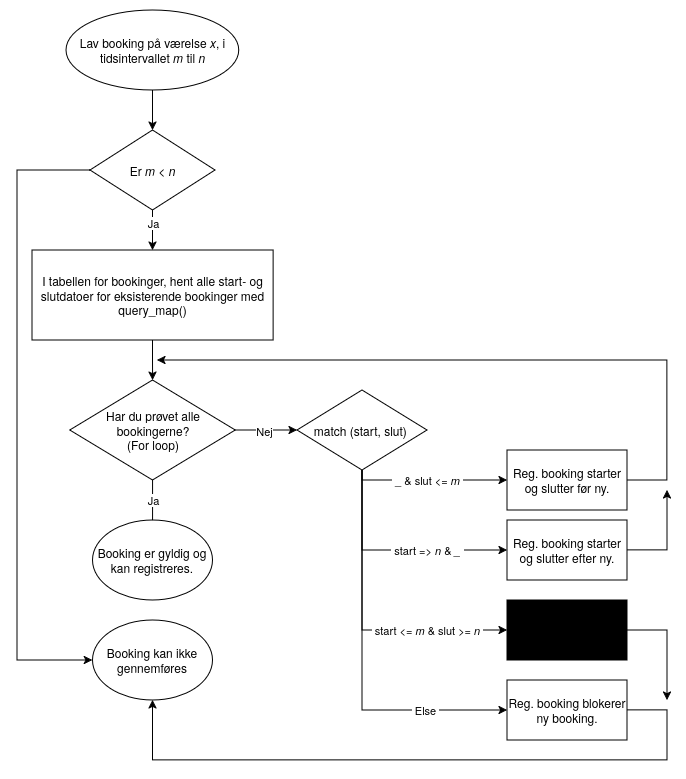
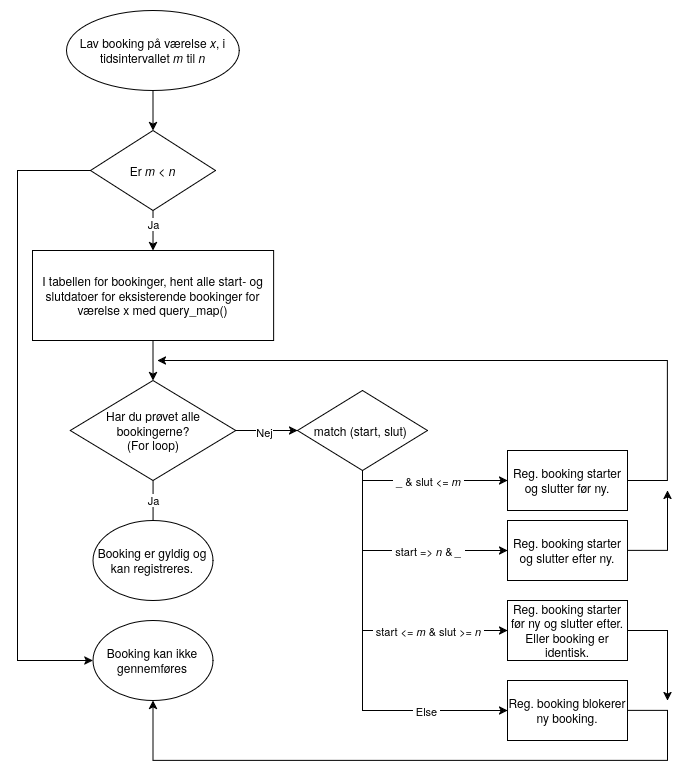
Quick save

diff --git a/src/commands.rs b/src/commands.rs
@@ -97,7 +97,7 @@ pub fn add_booking(conn: &Connection) -> Result<()> {
 
     match conn.execute(
         "INSERT INTO bookings (room_id, guest_id, start_date, end_date) VALUES (?1, ?2, ?3, ?4)",
-        (&room_id, &guest_id, &start_date, &end_date), // Tuples are being used here because, the data have different types.
+        (&room_id, &guest_id, &start_date, &end_date), // Tuples are being used here because, the data slots have different types.
     ) {
         Ok(_) => println!("Booking created successfully"),
         Err(e) => println!("Error creating booking: {}", e),
